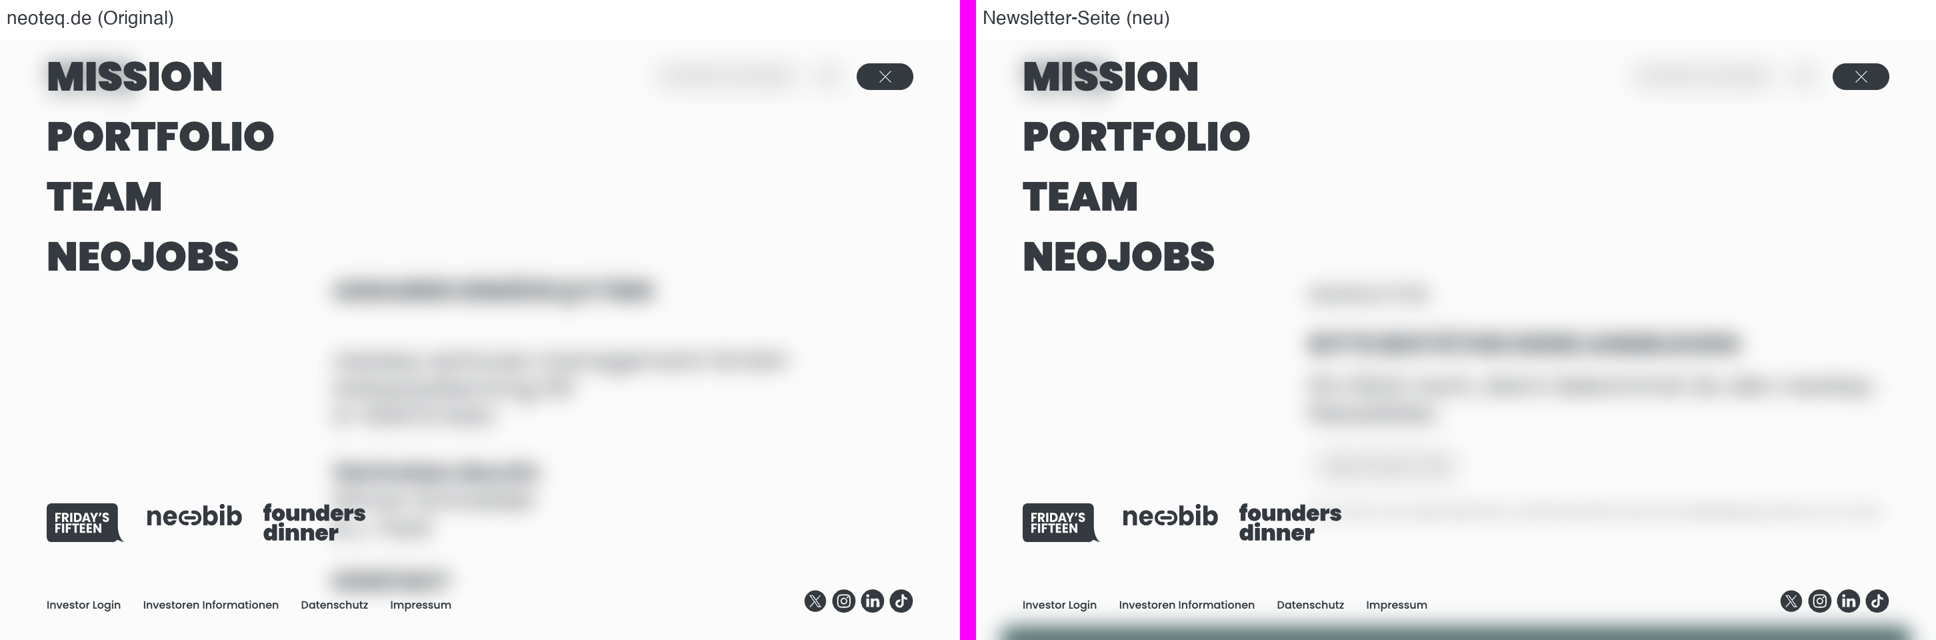
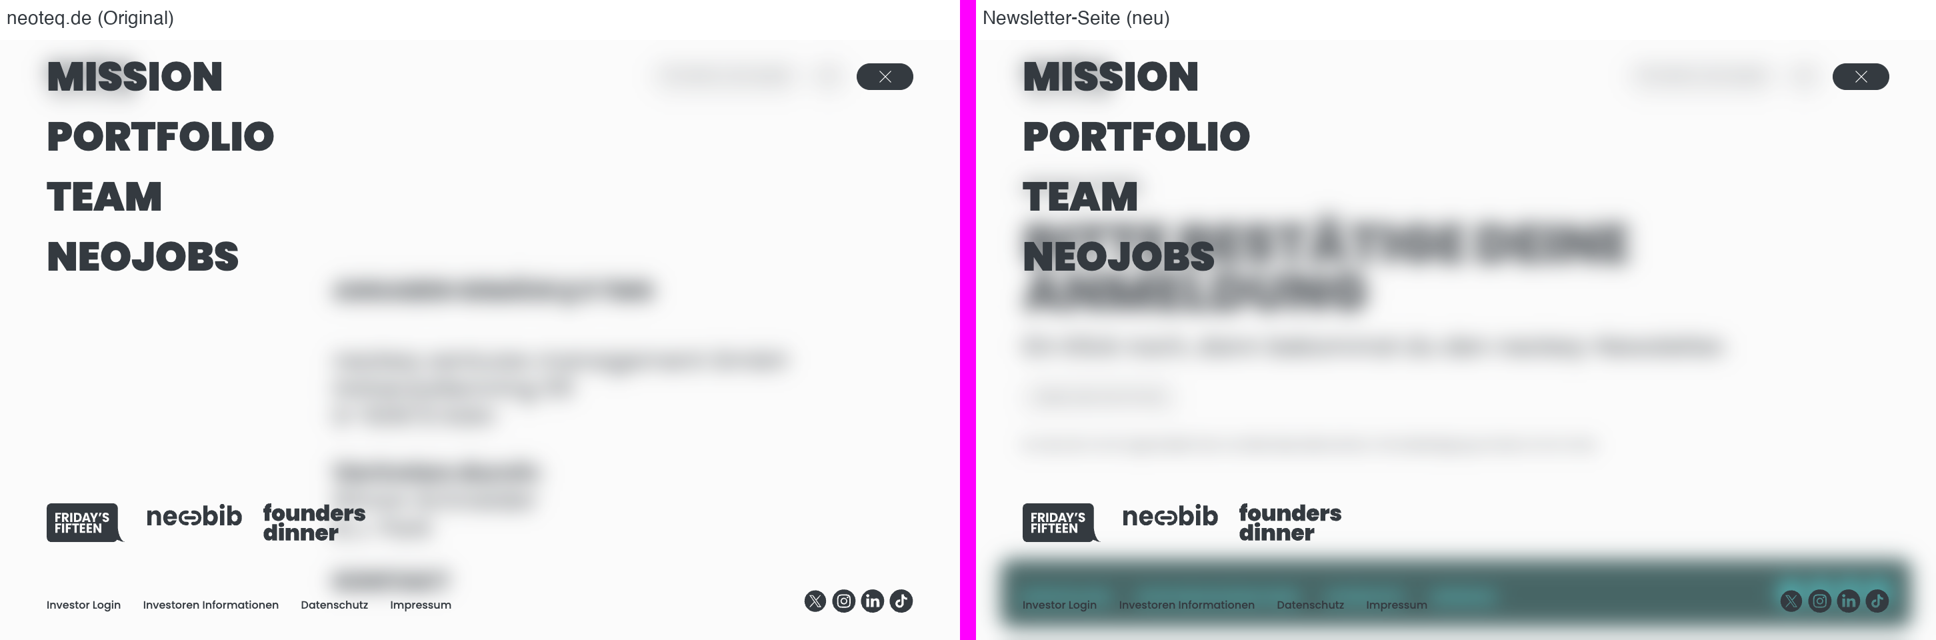
Inhalt wie /de/mission statt wie das Impressum
Dachzeile und große Überschrift (.h1, 80/72 px, mobil 40/36 px)
linksbündig direkt unter dem Header, darunter Satz und Button wie im
Block „GET IN TOUCH“. Der eingerückte .bodytext-Stil ist für lange
Texte gedacht und entfällt.

Changed region(s): [[0.5269, 0.2812, 0.9917, 0.6875], [0.4959, 0.8438, 1.0, 1.0]]

diff --git a/assets/style.css b/assets/style.css
@@ -119,14 +119,13 @@ header .container .btn { padding: 10px 16px; }
 .nav_socialMediaIcons { display: flex; gap: 7px; }
 .nav_socialMediaIcons img { width: 36px; }
 
-/* Inhalt wie .mask_text / .bodytext auf den Unterseiten von neoteq.de */
+/* Inhalt wie der Kopf von /de/mission (.mask_text ohne .bodytext) und der Block
+   „GET IN TOUCH“ (.mask_text_teaser): Dachzeile, große Überschrift, Text, Button, linksbündig. */
 main { margin-top: 200px; }
-.bodytext { margin-top: 160px; padding-left: 33%; }
-.dachzeile { display: block; margin-bottom: 35px; font-size: 30px; font-weight: 400; line-height: 45px; text-transform: uppercase; }
-h1 { font-size: 36px; font-weight: 900; letter-spacing: -.4px; line-height: 33px; margin-bottom: 25px; text-transform: uppercase; }
-.bodytext p + p { margin-top: 42px; }
-.bodytext .btn { margin-top: 33px; }
-.bodytext .leise { margin-top: 33px; font-size: 16px; line-height: 24px; }
+.dachzeile { display: block; margin-bottom: 25px; font-size: 30px; font-weight: 400; letter-spacing: -.4px; line-height: 45px; text-transform: uppercase; }
+h1 { font-size: 80px; font-weight: 900; letter-spacing: -.8px; line-height: 72px; margin-bottom: 25px; text-transform: uppercase; overflow-wrap: break-word; }
+.inhalt p { display: block; margin-bottom: 33px; }
+.inhalt .leise { margin: 33px 0 0; font-size: 16px; line-height: 24px; }
 .zustand:focus { outline: none; }
 
 /* Footer, ohne den Newsletter-iFrame von neoteq.de (Drittanbieter) */
@@ -141,8 +140,6 @@ footer .col-span-12 { display: flex; align-items: center; justify-content: space
 .footer_socialmedia img { max-width: none; }  /* natürliche Größe der SVGs wie auf neoteq.de */
 
 @media (max-width: 1200px) {
-  h1 { margin-bottom: 22px; }
-  .bodytext { margin-top: 80px; padding-left: 0; }
   footer { margin: 0 20px; padding-bottom: 20px; }
 }
 
@@ -177,11 +174,10 @@ footer .col-span-12 { display: flex; align-items: center; justify-content: space
   .nav_socialMediaIcons { margin-top: 30px; }
 
   main { margin-top: 92px; hyphens: auto; }
-  h1 { font-size: 20px; letter-spacing: -.2px; line-height: 18px; }
-  .dachzeile { font-size: 21px; line-height: 31.5px; }
-  .bodytext p + p { margin-top: 28px; }
-  .bodytext .btn { margin-top: 28px; }
-  .bodytext .leise { margin-top: 28px; }
+  h1 { font-size: 40px; letter-spacing: -.4px; line-height: 36px; margin-bottom: 22px; }
+  .dachzeile { font-size: 21px; letter-spacing: -.2px; line-height: 31.5px; margin-bottom: 22px; }
+  .inhalt p { margin-bottom: 28px; }
+  .inhalt .leise { margin-top: 28px; }
 
   footer { margin: 0 20px; padding-bottom: 20px; }
   footer .container { margin-bottom: 0; }

diff --git a/bestaetigen/index.html b/bestaetigen/index.html
@@ -67,7 +67,7 @@
 <main data-aktion="bestaetigen">
   <div class="container">
     <div class="col-span-12">
-      <div class="bodytext">
+      <div class="inhalt">
         <section data-zustand="start" tabindex="-1">
           <span class="dachzeile">Newsletter</span>
           <h1>Bitte bestätige deine Anmeldung</h1>

diff --git a/en/bestaetigen/index.html b/en/bestaetigen/index.html
@@ -67,7 +67,7 @@
 <main data-aktion="bestaetigen">
   <div class="container">
     <div class="col-span-12">
-      <div class="bodytext">
+      <div class="inhalt">
         <section data-zustand="start" tabindex="-1">
           <span class="dachzeile">Newsletter</span>
           <h1>Please confirm your subscription</h1>

diff --git a/en/abmelden/index.html b/en/abmelden/index.html
@@ -67,7 +67,7 @@
 <main data-aktion="abmelden">
   <div class="container">
     <div class="col-span-12">
-      <div class="bodytext">
+      <div class="inhalt">
         <section data-zustand="start" tabindex="-1">
           <span class="dachzeile">Newsletter</span>
           <h1>Unsubscribe from the newsletter</h1>

diff --git a/abmelden/index.html b/abmelden/index.html
@@ -67,7 +67,7 @@
 <main data-aktion="abmelden">
   <div class="container">
     <div class="col-span-12">
-      <div class="bodytext">
+      <div class="inhalt">
         <section data-zustand="start" tabindex="-1">
           <span class="dachzeile">Newsletter</span>
           <h1>Newsletter abmelden</h1>

diff --git a/werkzeuge/seiten_erzeugen.py b/werkzeuge/seiten_erzeugen.py
@@ -201,7 +201,7 @@ VORLAGE = """<!doctype html>
 <main data-aktion="{aktion}">
   <div class="container">
     <div class="col-span-12">
-      <div class="bodytext">
+      <div class="inhalt">
         <section data-zustand="start" tabindex="-1">
           <span class="dachzeile">{dachzeile}</span>
           <h1>{h1}</h1>

diff --git a/DESIGN.md b/DESIGN.md
@@ -37,9 +37,9 @@ Gewicht 700 (Footer-Links) hat keine eigene Datei. Der Browser nimmt Black, wie 
 | Element | Desktop | Mobil (≤ 786 px) |
 |---|---|---|
 | Fließtext `body` | 36 px / 42 px, 500 | 21 px / 28 px |
-| Überschrift `h2` (Unterseiten) | 36 px / 33 px, 900, Versalien, −0,4 px | 20 px / 18 px, −0,2 px |
-| `h1` (nur Startseite) | 80 px / 72 px, 900, Versalien | 40 px / 36 px |
-| Dachzeile `.text-dachzeile` | 30 px / 45 px, 400, Versalien | 21 px / 31,5 px |
+| Seitenüberschrift `.h1` (Mission, Team, Teaser; bei uns `h1`) | 80 px / 72 px, 900, Versalien, −0,8 px | 40 px / 36 px, −0,4 px |
+| Zwischenüberschrift `h2` (Impressum) | 36 px / 33 px, 900, Versalien, −0,4 px | 20 px / 18 px, −0,2 px |
+| Dachzeile `.text-dachzeile` | 30 px / 45 px, 400, Versalien, −0,4 px | 21 px / 31,5 px, −0,2 px |
 | Kleintext `.text-body2` | 16 px / 24 px | 16 px / 24 px |
 | Button | 16 px / 24 px, 500, Versalien | Zeilenhöhe 1, zentriert |
 | Menüpunkte `.text-nav` | 60 px / 90 px, 900, Versalien | 40 px / 60 px |
@@ -53,10 +53,14 @@ Mobil gilt `hyphens: auto` für `main`.
   Mobil: `gap` 10 px, Innenabstand 22 px, `margin-bottom: 5rem`.
 - Header fest oben (`position: fixed`), Innenabstand 25 px 33 px (mobil 25 px 22 px), Höhe 110,5 px (mobil 92,8 px).
 - `main`: `margin-top: 200px` (mobil 92 px).
-- Textblock `.mask_text .bodytext`: `margin-top: 160px`, `padding-left: 33%`, also Text ab x = 499 px bei 1440 px Breite.
-  Bis 1200 px: `margin-top: 80px`, `padding-left: 0`.
-- Überschrift `margin-bottom: 25px` (≤ 1200 px: 22 px), Dachzeile `margin-bottom: 35px`.
-- Abstand Text → Button 33 px (mobil 28 px), aus `.mask_text_teaser`.
+- Seitenkopf `.mask_text` (z. B. /de/mission): Dachzeile direkt unter dem Header (y = 200 px, mobil 92 px), linksbündig ab x = 70 px
+  (mobil 22 px), über die volle Containerbreite. Abstand Dachzeile → Überschrift 25 px (mobil 22 px).
+- Langer Fließtext `.bodytext` (Impressum, Mission): `margin-top: 160px`, `padding-left: 33%`, also eingerückt ab x = 499 px.
+  **Für die Newsletter-Seiten nicht verwendet.** Das ist das Muster für lange Texte, nicht für kurze Seiten mit einem Button.
+- Block mit Aufruf `.mask_text_teaser` („GET IN TOUCH“ auf /de/mission): Dachzeile, `.h1`, Button, linksbündig.
+  Abstand zum Button 33 px (mobil 28 px).
+- **Newsletter-Seiten:** Seitenkopf wie /de/mission, danach wie im Teaser ein kurzer Satz im Fließtext (36/42 px, mobil 21/28 px), der Button
+  und ein Hinweis in `.text-body2` (16/24 px).
 
 ## Rundungen
 
@@ -112,6 +116,7 @@ Die Newsletter-Seiten nutzen fest Petrol/Türkis. Weiße Footer-Box gibt es mobi
 
 ## Vergleich
 
-Screenshots nebeneinander (links neoteq.de/de/impressum, rechts `/bestaetigen/`) in `docs/vergleich/`.
+Screenshots nebeneinander in `docs/vergleich/`: Inhalt gegen /de/mission, Menü gegen /de/impressum, jeweils rechts `/bestaetigen/`.
+Dachzeile und Überschrift liegen bei 1440 und 390 px auf denselben Koordinaten wie auf /de/mission, mit gleicher Größe und gleichen Abständen.
 Pixelvergleich der Header-Streifen: 0 abweichende Pixel bei 1440, 1100 und 390 px.
 Die Elementpositionen im geöffneten Menü und im Footer stimmen auf den Pixel.
